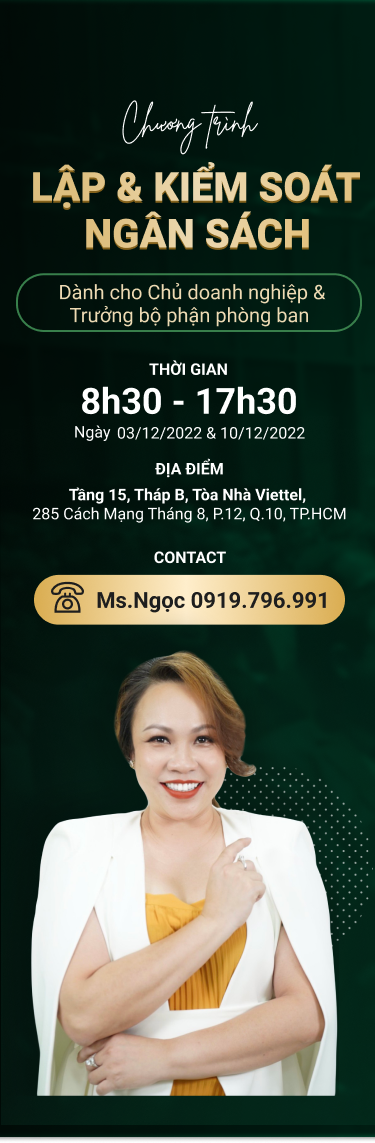
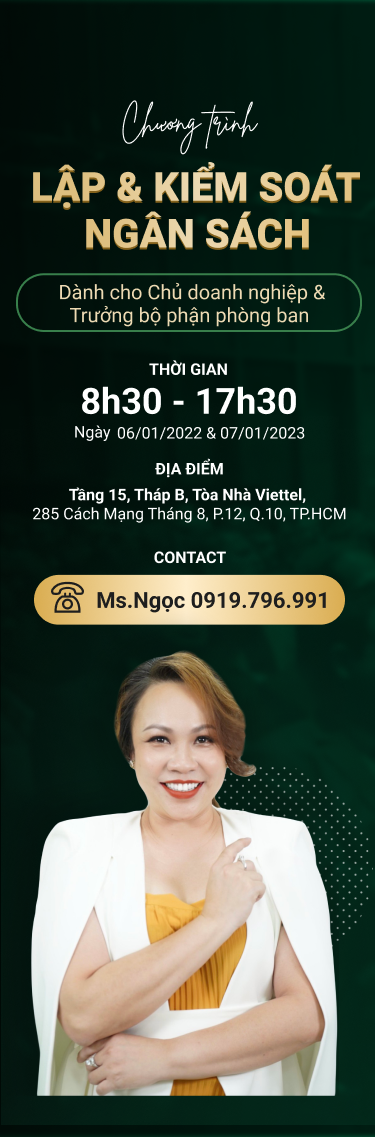
Update code

diff --git a/src/components/common/PopupRegister.js b/src/components/common/PopupRegister.js
@@ -25,7 +25,7 @@ const PopupRegister = () => {
     message: "",
     sourceId: f_source,
     rid: f_rid,
-    title: "CRM_FORM_NS_03-10/12/2022",
+    title: "CRM_FORM_NS_06-07/01/2023",
   });
   const handleChange = (e) => {
     setData({
@@ -56,7 +56,7 @@ const PopupRegister = () => {
           id: result.result,
           rows: [
             {
-              PRODUCT_ID: 16346,
+              PRODUCT_ID: 16354,
               PRICE: 0,
               QUANTITY: 1,
               TAX_INCLUDED: "Y",

diff --git a/src/components/common/Countdown.js b/src/components/common/Countdown.js
@@ -8,7 +8,7 @@ const Countdown = () => {
     });
   };
   const timediff = Math.floor(
-    new Date("December 03,2022 00:00:00").getTime() - new Date().getTime()
+    new Date("January 06,2023 00:00:00").getTime() - new Date().getTime()
   );
   const [deadline, setDeadline] = useState({
     days: "00",

diff --git a/src/components/Content.js b/src/components/Content.js
@@ -99,7 +99,7 @@ const Content = () => {
             <img
               className="ticket"
               onClick={() => setShow(!show)}
-              src="/images/ticket.png"
+              src="/images/ticket2.png"
               alt=""
             />
           </div>
